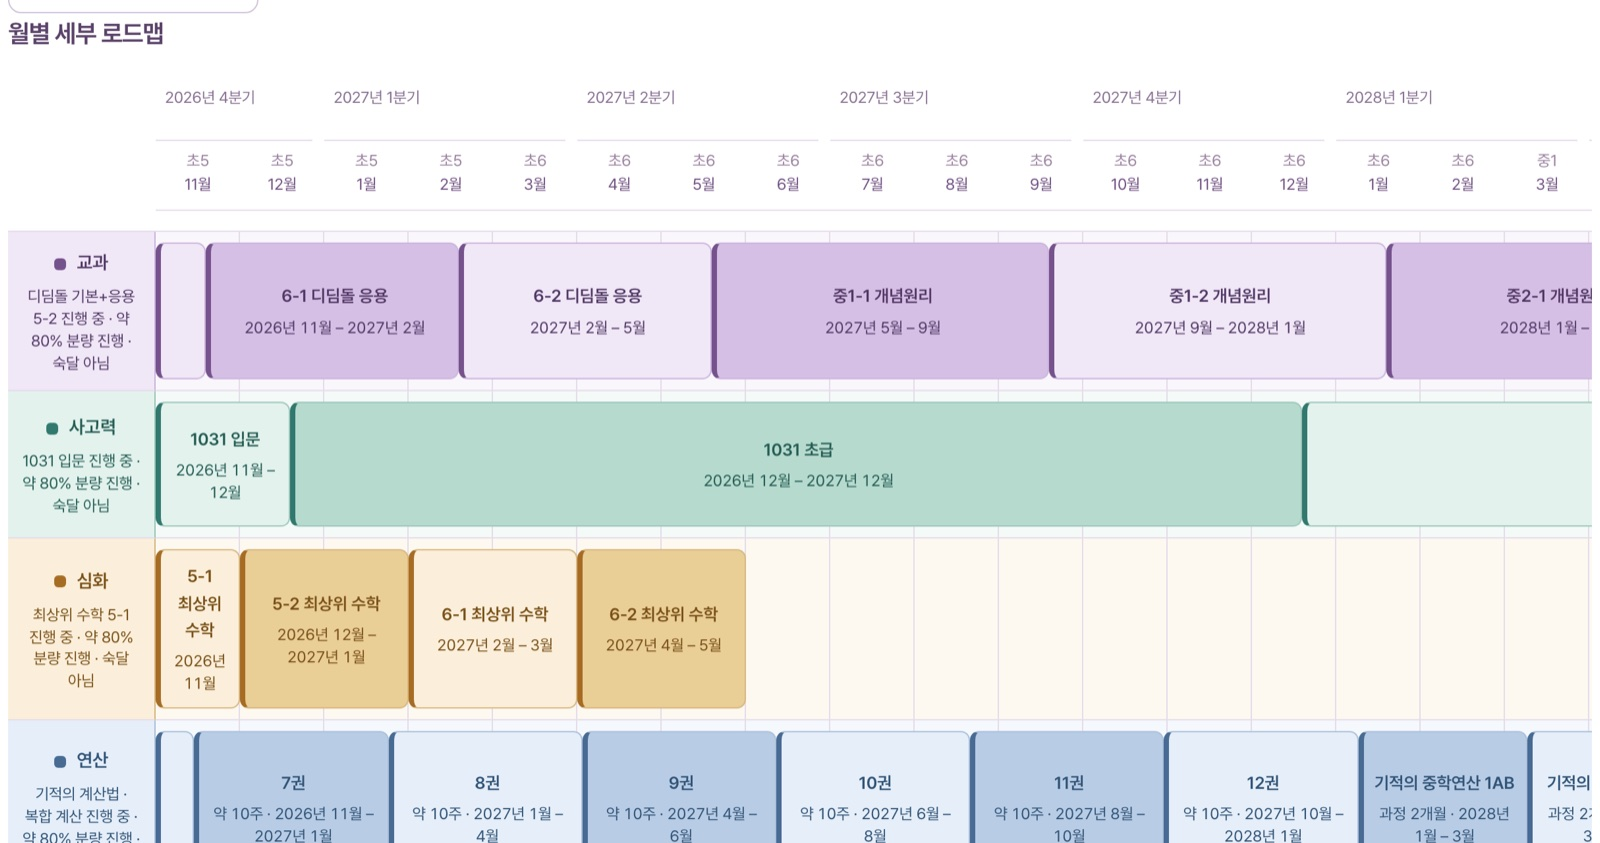
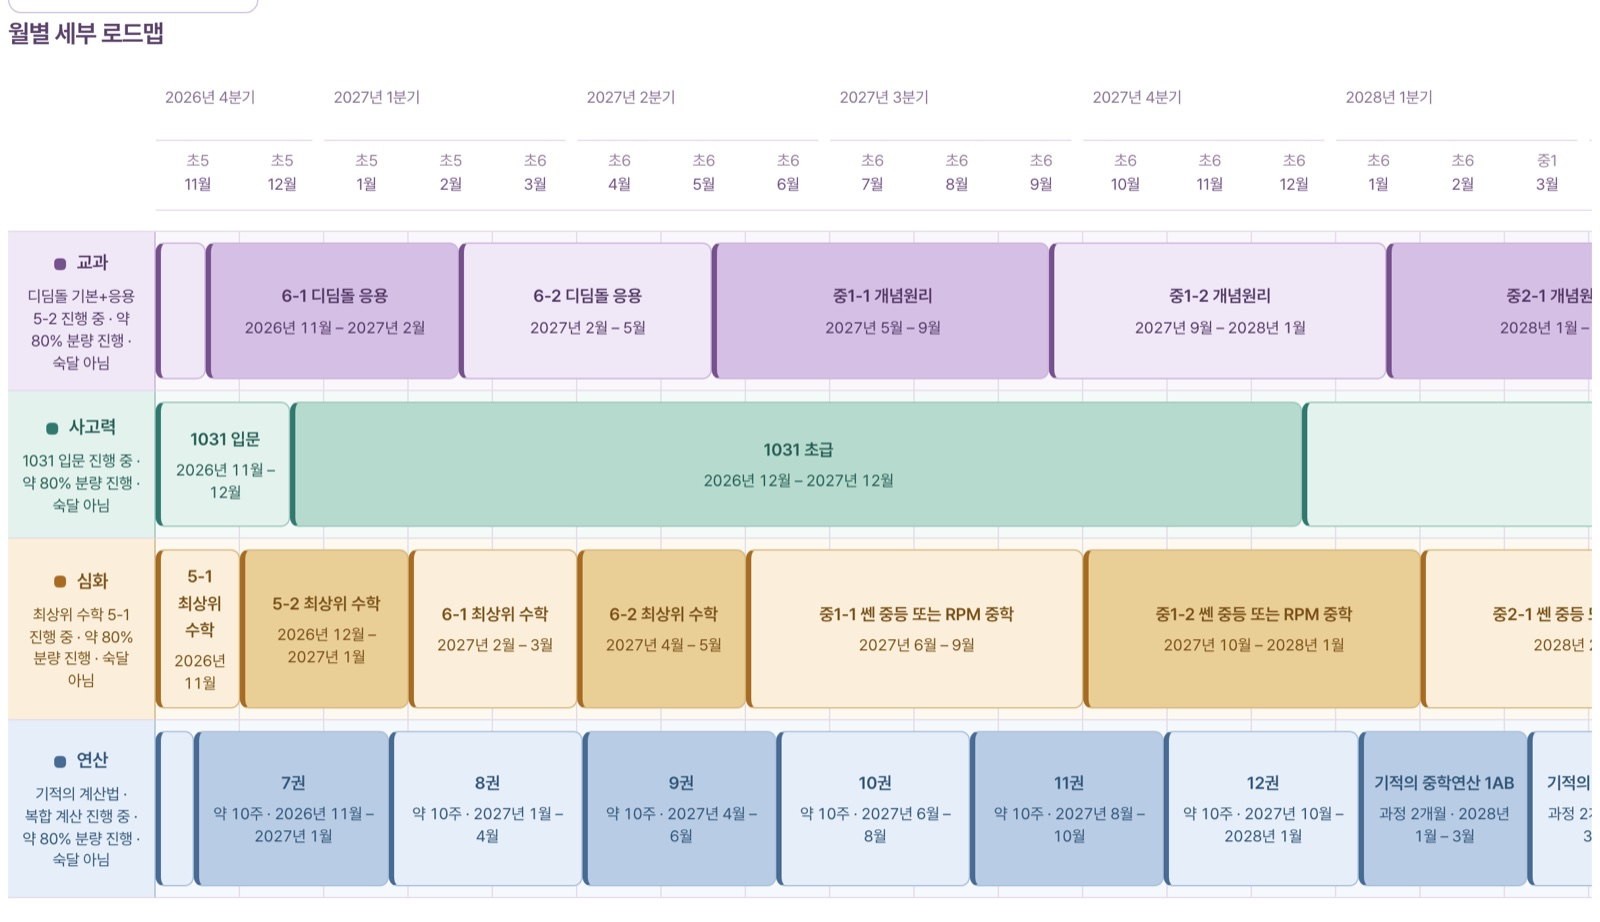
월별 계획: 중등 심화 줄을 레벨별 교재로 이음
- 낮은 레벨 쎈 또는 RPM, 중간 쎈과 일품, 위 쎈과 에이급
- 레벨은 기존 세 묶음 기준, 저장 형식은 그대로
- 소개의 월별 계획 그림을 다시 찍음

diff --git a/roadmap/demo2/planner-standard.js b/roadmap/demo2/planner-standard.js
@@ -91,6 +91,35 @@ function renderSupplementChoices(m){
  const message=m.supplementChoice==='covered'?'현재 수업·부교재에서 배우는 문장제·도형을 이어갑니다. 같은 내용을 별도 보충으로 더하지 않습니다.':m.supplementEnabled?'현재 수준에 맞는 문제해결의 길잡이·소마 도형을 꾸준히 병행합니다. 소마 수업과 겹치는 부분은 제외하고 부족한 내용부터 살펴봅니다.':m.supplementChoice==='review'?'현재 수업에서 배우는 범위와 혼자 해결하는 모습을 먼저 확인합니다. 확인 전에는 별도 보충을 추가하지 않습니다.':'현재 수업에서 이미 배우는 내용인지 먼저 확인합니다. 현재 수업·부교재와 겹치는 내용은 중복으로 배정하지 않습니다.';
  return`<section class="supplement-choice" aria-label="초1·2 문장제·도형 학습 확인"><strong>문장제·도형은 지금 어떻게 배우고 있나요?</strong><div role="group" aria-label="현재 수업과 보충 필요">${SUPPLEMENT_CHOICES.map(([id,title])=>`<button type="button" data-supplement="${id}" aria-pressed="${m.supplementChoice===id}">${title}</button>`).join('')}</div><p aria-live="polite">${message}</p></section>`;
 }
+// 중등 심화 줄 (원장님 2026-11-11): 낮은 레벨은 쎈 또는 RPM, 중간 레벨은 쎈과 일품, 그 위 레벨은 쎈과 에이급.
+// 레벨을 낮음·중간·위로 나누는 선은 새로 만들지 않고 2026-10-20 표준 세 묶음(planner.js BAND)을 그대로 쓴다:
+// C 천천히형 L10~L13 = 낮음, B 예시형 L4~L9 = 중간, A 선행형 L0~L3 = 위. 영과고형(D)은 기존 심화서가 에이급이라 위로 본다.
+// [원장 확인 필요] 세 묶음과 낮음·중간·위의 짝, D를 위로 본 것은 Claude가 맞춘 것이다.
+// 교재 이름은 교재 난이도 지도(planner-math-books-data.js)의 표기와 같게 둔다.
+const MIDDLE_DEPTH=Object.freeze({
+ C:Object.freeze({tier:'low',levels:'L10~L13',books:Object.freeze(['쎈 중등','RPM 중학']),join:' 또는 '}),
+ B:Object.freeze({tier:'middle',levels:'L4~L9',books:Object.freeze(['쎈 중등','일품 중등']),join:' + '}),
+ A:Object.freeze({tier:'high',levels:'L0~L3',books:Object.freeze(['쎈 중등','에이급수학']),join:' + '})
+});
+function middleDepth(band){const rule=MIDDLE_DEPTH[band==='D'?'A':band]||MIDDLE_DEPTH.B;return{...rule,title:rule.books.join(rule.join)};}
+const MIDDLE_DEPTH_SOURCE='level-depth-rule';
+const middleDepthExtra=(rule,stage)=>({source:MIDDLE_DEPTH_SOURCE,stage,proposed:true,books:[...rule.books],depthTier:rule.tier});
+// 24개월 끝에서 잘려 한 달 남짓만 보이는 마지막 칸은 긴 교재 이름이 줄 전체를 높이지 않게 글자를 숨긴다(이름과 기간은 aria-label·상세 표·팝업에 남는다).
+const compactTail=b=>b&&b.endClipped&&b.end-b.start<1.5?{...b,compact:true}:b;
+// 초등 심화를 마친 다음의 중등 심화. 앞 심화가 끝난 뒤, 그리고 교과가 그 학기를 시작한 뒤에만 놓는다(심화가 교과를 앞서지 않는다).
+// 한 학기 길이는 같은 레벨표의 중등 교과 한 학기와 같다. 교과 일정을 모르는 학기부터는 만들지 않는다.
+function middleDepthChain({band,after,schoolBlocks,sourceRows,passed}){
+ const rule=middleDepth(band),out=[];let cursor=Math.max(0,after);
+ for(const [n,stage] of P.MID.entries()){
+  const lesson=schoolBlocks.find(b=>b.stage===stage&&!b.highPhase);
+  if(!lesson&&!passed(14+n))break;
+  const row=sourceRows.find(r=>G.stage(r[0],'school')===stage),full=row?row[2]-row[1]+1:(P.BAND[band]||P.BAND.B).midLen;
+  const start=Math.max(cursor,lesson?lesson.start:0),block=clipped(stage+' '+rule.title,start,start+full,'deep-middle-'+(14+n),'deep',middleDepthExtra(rule,stage));
+  if(!block)break;
+  out.push(compactTail(block));cursor=start+full;
+ }
+ return out;
+}
 function model(answers={},fields={},options={}){
  const a=I.effective(answers),c=G.comparison(a,fields),source=(global.PLANNER_LEVELS||[]).find(l=>l.id===c.best),detail=global.PLANNER_STANDARD_DETAILS?.[c.best],levelNumber=source?Number(source.id.slice(1)):null;
  const defaultPattern=a.thinkingExperience==='yes'?'thinking':levelNumber!==null&&levelNumber>=10?'deep':'thinking';
@@ -106,26 +135,36 @@ function model(answers={},fields={},options={}){
  const calcPlan=calculationPlan(a,fields,options.calcDaysPerWeek);calc.blocks=calcPlan.blocks;calc.source=calcPlan.supported?'publisher-workload':null;calc.anchor=calcPlan.blocks[0]?.stage;calc.note=calcPlan.note;if(calcPlan.supported&&calcPlan.hasElementary)calc.current='기적의 계산법 · '+calc.current;
  if(schoolParallel&&detail?.elementaryMode?.id==='application-then-depth'&&school.anchor!==null)school.blocks=withoutDepthSlots(fromSource(source.school,school.anchor,'school','school',{horizon:Infinity}),detail.schoolGaps||[],school.anchor);
  fillIndependent(thinking,a,c,thinkingSource(c),profile);
+ // The same school calendar without the 24-month cut, for depth and science anchors.
+ let fullSchool=[];
+ if(source&&school.anchor!==null){
+  fullSchool=fromSource(source.school,school.anchor,'school-reference','school',{horizon:Infinity});
+  if(schoolParallel&&detail?.elementaryMode?.id==='application-then-depth')fullSchool=withoutDepthSlots(fullSchool,detail.schoolGaps||[],school.anchor,Infinity);
+ }
+ const actualSchoolAxis=c.axes.find(x=>x.id==='school'),schoolIndex=P.MID.indexOf(actualSchoolAxis?.stage);
+ const schoolPassed=n=>!!actualSchoolAxis?.ready&&(I.highBook(a.schoolBook)||schoolIndex>=0&&(14+schoolIndex>n||14+schoolIndex===n&&actualSchoolAxis.done));
  if(independentDepth){
   deep.blocks=profileBlocks(profile,'deep');deep.source='current-profile';deep.anchor=deep.blocks[0]?.stage||null;
+  // A reported elementary depth book ends at 6-2. The middle-school part follows the level rule;
+  // a reported middle or high depth book keeps its own reported course untouched.
+  if(a.deepCourse==='elem'&&!I.middleBook(a.deepBook)&&!I.highBook(a.deepBook)&&school.blocks.length&&!deep.blocks.some(b=>b.endClipped)){
+   deep.blocks.push(...middleDepthChain({band,after:Math.max(0,...deep.blocks.map(b=>b.end)),schoolBlocks:fullSchool.length?fullSchool:school.blocks,sourceRows:source?.school||[],passed:schoolPassed}));
+  }
   deep.note=deep.blocks.length?'현재 심화 교재·범위에서 별도로 이어가는 과정입니다. 교과와 사고력의 진도는 유지합니다.':'현재 심화 과정 이후 교재·범위는 풀이를 확인한 뒤 연결합니다.';
  }else if(pattern==='deep'&&deep.status!=='unknown'&&school.blocks.length&&source&&school.anchor!==null){
   // This is a proposed standard only when no independent depth course is reported.
   const elementary=(detail?.school2||[]).filter(b=>/^[1-6]-[12]$/.test(b.stage||'')||!/중|공통|고등/.test(b.title)&&/최상위/.test(b.title));
   deep.blocks=fromSource(elementary,school.anchor,'deep','school',{all:true});deep.source='standard-depth';deep.anchor=school.anchor;
-  if(band==='C'){
-   for(const block of school.blocks){if(!/^중[1-3]-[12]$/.test(block.stage||''))continue;
-    deep.blocks.push({...block,id:'deep-current-policy-'+block.id,title:block.stage+' '+I.standardBook('C','mid','deep'),kind:'deep',source:'current-engine-C'});
-   }
+  const rule=middleDepth(band);
+  for(const block of school.blocks){if(!/^중[1-3]-[12]$/.test(block.stage||''))continue;
+   deep.blocks.push(compactTail({...block,id:'deep-current-policy-'+block.id,title:block.stage+' '+rule.title,kind:'deep',...middleDepthExtra(rule,block.stage)}));
   }
   deep.note=deep.blocks.length?'아직 별도로 공부 중인 심화가 없을 때 비교하는 표준 심화 과정입니다.':'이 범위의 심화 교재는 현재 학습과 풀이를 확인한 뒤 연결합니다.';
  }else deep.note=deep.status==='unknown'?'현재 심화 교재와 범위를 확인한 뒤 연결합니다.':deep.status==='none'?'아직 시작하지 않은 영역입니다. 시작 교재는 조정 단계에서 선택할 수 있습니다.':'현재 심화 학습을 선택하면 과정이 연결됩니다.';
  if(band==='C')school.blocks=school.blocks.map(block=>/^중/.test(block.stage||'')&&block.source==='level-table'?{...block,title:block.stage+' '+I.standardBook('C','mid','school'),source:'current-engine-C'}:block);
  let scienceAnchor=null;
  if(source&&school.anchor!==null){
-  let full=fromSource(source.school,school.anchor,'science-reference','school',{horizon:Infinity});
-  if(schoolParallel&&detail?.elementaryMode?.id==='application-then-depth')full=withoutDepthSlots(full,detail.schoolGaps||[],school.anchor,Infinity);
-  const middle=full.find(b=>b.stage==='중2-1');
+  const middle=fullSchool.find(b=>b.stage==='중2-1');
   if(middle)scienceAnchor=middle.end;
   else{const raw=source.school.find(b=>G.stage(b[0],'school')==='중2-1');if(raw&&raw[2]+1<=school.anchor)scienceAnchor=raw[2]+1-school.anchor;}
  }
@@ -169,13 +208,16 @@ function model(answers={},fields={},options={}){
  ];
  if(sequential)assumptions.push('응용 3개월 다음에 같은 학기의 심화 2개월을 공부합니다. 교과선이 평평한 두 달은 심화에 집중하는 기간입니다.');
  else if(detail?.elementaryMode?.id==='application-then-depth')assumptions.push(independentDepth?'이미 별도로 진행 중인 심화가 있어 교과 뒤에 표준 심화 2개월을 추가하지 않습니다. 현재 심화의 범위·기간과 사고력·연산은 각각 별도로 이어갑니다.':'교과·사고력 중심 구성에서는 교과 뒤의 별도 심화 2개월을 배정하지 않고 다음 교과를 잇습니다. 다른 영역의 현재 출발점은 그대로 유지합니다.');
- if(band==='C')assumptions.push('중등 교과는 개념원리·RPM으로 개념과 유형을 공부합니다. A급 등 심화 교재는 현재 풀이를 보고 따로 선택합니다.');
+ if(band==='C')assumptions.push('중등 교과는 개념원리로 개념을 배우고, 쎈 또는 RPM으로 유형을 다집니다. 에이급 등 더 어려운 심화서는 현재 풀이를 보고 따로 선택합니다.');
+ const depthRule=deep.blocks.some(b=>b.source===MIDDLE_DEPTH_SOURCE)?middleDepth(band):null;
+ const depthRuleNote=depthRule?'중등 심화 교재는 학습 레벨에 따라 달라집니다. '+MIDDLE_DEPTH.C.levels+'은 쎈 또는 RPM, '+MIDDLE_DEPTH.B.levels+'는 쎈과 일품, '+MIDDLE_DEPTH.A.levels+'은 쎈과 에이급입니다. 이 계획은 '+(c.best?c.best+' 기준이라 ':'')+depthRule.title+'으로 잡았습니다. 실제 풀이를 보고 교재를 바꿀 수 있습니다.':'';
+ if(depthRuleNote)assumptions.push(depthRuleNote,independentDepth?'중등 심화는 지금 하는 초등 심화를 마친 뒤, 교과에서 그 학기를 시작한 다음에 이어갑니다. 한 학기 길이는 중등 교과 한 학기와 같게 잡았습니다.':'중등 심화는 교과와 같은 학기를 함께 공부하는 일정으로 잡았습니다.');
  if(Object.keys(highReadyAt).length)assumptions.push('고등 개념·쎈 병행 → 다음 과목 선행 + 앞 과목 심화. 기본정석의 완료를 쎈 완료로 간주하지 않습니다.',...highWarnings);
  assumptions.push(calcPlan.note);
  if(supplementEligible)assumptions.push('초1·2 문장제·도형 보충은 현재 수업에서 부족한 부분이 있을 때 추가합니다. 문제해결의 길잡이·소마 도형 중 수업과 겹치지 않는 내용을 골라 주세요.');
  if(supplementEnabled)assumptions.push('문제해결의 길잡이와 소마 도형 중 수업과 겹치지 않는 내용을 꾸준히 병행합니다. 표시 범위는 병행할 시기이며 한 권의 이수 기간이 아닙니다. 현재 단계와 풀이를 보고 조정합니다.');
  const composition=['교과',...(thinking.status==='known'||pattern==='thinking'?['사고력']:[]),...(independentDepth||pattern==='deep'||deep.blocks.some(b=>b.highPhase)?['심화']:[]),'연산'].join(' · ');
- return{ready,pattern,composition,highReadyAt,highWarnings,independentDepth,scienceAnchor,level:c.best||null,levelLabel:c.best?G.levelLabel(c,c.best):'현재 학습에서 시작',band,lanes,months,stages,now:c.now,horizon:LIMIT,sequential,calcPlan,supplementEligible,supplementChoice,supplementEnabled,supplements,assumptions,partial:lanes.some(l=>!l.blocks.length),reason:ready?'':school.note||'현재 교과와 진도를 선택하면 표준 계획을 먼저 보여드립니다.'};
+ return{ready,pattern,composition,highReadyAt,highWarnings,independentDepth,depthRule:depthRule?{tier:depthRule.tier,books:[...depthRule.books],title:depthRule.title}:null,depthRuleNote,scienceAnchor,level:c.best||null,levelLabel:c.best?G.levelLabel(c,c.best):'현재 학습에서 시작',band,lanes,months,stages,now:c.now,horizon:LIMIT,sequential,calcPlan,supplementEligible,supplementChoice,supplementEnabled,supplements,assumptions,partial:lanes.some(l=>!l.blocks.length),reason:ready?'':school.note||'현재 교과와 진도를 선택하면 표준 계획을 먼저 보여드립니다.'};
 }
 function period(m,b){const start=monthAt({year:m.months[0]?.year,mon:m.months[0]?.month},Math.floor(b.start)),end=monthAt({year:m.months[0]?.year,mon:m.months[0]?.month},Math.max(0,Math.ceil(b.end)-1));return start.label+(start.label===end.label?'':' – '+(start.year===end.year?end.month+'월':end.label));}
 function renderSummary(m){return`<div class="standard-summary"><div><small>현재 공부에서 이어지는 표준 계획</small><strong>${esc(m.composition)}</strong></div><span>${esc(m.levelLabel)}</span>${Object.keys(m.highReadyAt||{}).length?'<button type="button" data-high-study-open>고등 개념·쎈·심화</button>':''}</div>`;}
@@ -199,10 +241,12 @@ function render(m,options={}){
  const groups=[];m.months.forEach((d,i)=>{const name=d.year+'년 '+d.quarter+'분기';if(groups.at(-1)?.name===name)groups.at(-1).count++;else groups.push({name,start:i,count:1});});
  const endNote=m.lanes.find(row=>row.id==='school')?.note;
  const pendingNote=endNote?`<p class="standard-source-end">${esc(endNote)}</p>`:'';
+ // 월별 표 바로 아래에만 보인다. 지도 보기에서는 달력이 접혀 있어 '기간과 연결 기준' 안에만 둔다.
+ const depthRuleNote=m.depthRuleNote?`<p class="standard-source-end standard-depth-rule">${esc(m.depthRuleNote)}</p>`:'';
  const assumptions=`<details class="standard-assumptions"><summary>표준 계획의 기간과 연결 기준</summary><ul>${m.assumptions.map(s=>`<li>${esc(s)}</li>`).join('')}</ul></details>`;
  const displayRows=m.lanes.flatMap(row=>{const extra=row.blocks.filter(b=>b.additional);return extra.length?[{...row,blocks:row.blocks.filter(b=>!b.additional)},...extra.map(b=>({...row,label:row.label+' · 추가 현재 심화',current:b.title,blocks:[b],note:''}))]:[row];});
- const calendar=`<div class="standard-calendar" tabindex="0" aria-label="24개월 영역별 학습 일정"><div class="standard-calendar-inner"><div class="standard-quarter-axis" style="display:grid;grid-template-columns:repeat(24,minmax(0,1fr))">${groups.map(g=>`<span style="grid-column:${g.start+1}/span ${g.count}">${esc(g.name)}</span>`).join('')}</div><div class="standard-month-axis" style="display:grid;grid-template-columns:repeat(24,minmax(0,1fr))">${m.months.map(d=>`<span><small>${esc(d.grade)}</small>${d.month}월</span>`).join('')}</div><div class="standard-lanes">${displayRows.map(row=>`<section class="standard-lane" data-lane="${row.id}" data-study-area="${row.id}"><header><strong>${esc(row.label)}</strong><span>${esc(row.current)}</span></header><div class="standard-lane-track">${row.blocks.map(b=>`<button type="button" class="standard-block ${b.current?'is-current':''}${b.end-b.start<.75?' is-sliver':''}" data-course-tone="${tone(b)}" data-standard-block="${esc(b.id)}" style="left:${b.start/LIMIT*100}%;width:${(b.end-b.start)/LIMIT*100}%" aria-label="${esc(row.label+' · '+b.title+' · '+period(m,b))}"><strong>${esc(row.id==='calc'?b.title.replace('기적의 계산법 ' ,''):b.title)}</strong><small>${b.weeks?'약 '+Number(b.weeks.toFixed(1))+'주 · ':b.fullMonths?'과정 '+b.fullMonths+'개월 · ':''}${esc(period(m,b))}${b.continues?' · 이후 계속':''}</small></button>`).join('')||`<p class="standard-lane-empty">${esc(row.note)}</p>`}${tail(row)}</div></section>`).join('')}</div></div></div>`;
- if(options.view==='table')return`<section class="standard-roadmap">${summary}<h3 class="horizontal-plan-title">월별 세부 로드맵</h3>${calendar.replace('class="standard-calendar"','class="standard-calendar horizontal-course-grid"')}${pendingNote}${routine}${supplements}<details class="horizontal-plan-details"><summary>교재별 기간 상세</summary><div class="standard-table-wrap"><table class="standard-table"><caption>표준 교재와 월별 과정</caption><thead><tr><th>영역</th><th>기간</th><th>공부할 교재·과정</th></tr></thead><tbody>${m.lanes.map(row=>row.blocks.length?row.blocks.map(b=>`<tr data-study-area="${row.id}" data-course-tone="${tone(b)}"><th scope="row">${esc(row.label)}</th><td>${esc(period(m,b))}</td><td>${esc(b.title)}${b.reported?' · 현재 교재':''}</td></tr>`).join(''):`<tr data-study-area="${row.id}"><th scope="row">${esc(row.label)}</th><td>연결 전</td><td>${esc(row.current)}<small>${esc(row.note)}</small></td></tr>`).join('')}</tbody></table></div></details>${assumptions}</section>`;
+ const calendar=`<div class="standard-calendar" tabindex="0" aria-label="24개월 영역별 학습 일정"><div class="standard-calendar-inner"><div class="standard-quarter-axis" style="display:grid;grid-template-columns:repeat(24,minmax(0,1fr))">${groups.map(g=>`<span style="grid-column:${g.start+1}/span ${g.count}">${esc(g.name)}</span>`).join('')}</div><div class="standard-month-axis" style="display:grid;grid-template-columns:repeat(24,minmax(0,1fr))">${m.months.map(d=>`<span><small>${esc(d.grade)}</small>${d.month}월</span>`).join('')}</div><div class="standard-lanes">${displayRows.map(row=>`<section class="standard-lane" data-lane="${row.id}" data-study-area="${row.id}"><header><strong>${esc(row.label)}</strong><span>${esc(row.current)}</span></header><div class="standard-lane-track">${row.blocks.map(b=>`<button type="button" class="standard-block ${b.current?'is-current':''}${b.end-b.start<.75||b.compact?' is-sliver':''}" data-course-tone="${tone(b)}" data-standard-block="${esc(b.id)}" style="left:${b.start/LIMIT*100}%;width:${(b.end-b.start)/LIMIT*100}%" aria-label="${esc(row.label+' · '+b.title+' · '+period(m,b))}"><strong>${esc(row.id==='calc'?b.title.replace('기적의 계산법 ' ,''):b.title)}</strong><small>${b.weeks?'약 '+Number(b.weeks.toFixed(1))+'주 · ':b.fullMonths?'과정 '+b.fullMonths+'개월 · ':''}${esc(period(m,b))}${b.continues?' · 이후 계속':''}</small></button>`).join('')||`<p class="standard-lane-empty">${esc(row.note)}</p>`}${tail(row)}</div></section>`).join('')}</div></div></div>`;
+ if(options.view==='table')return`<section class="standard-roadmap">${summary}<h3 class="horizontal-plan-title">월별 세부 로드맵</h3>${calendar.replace('class="standard-calendar"','class="standard-calendar horizontal-course-grid"')}${pendingNote}${depthRuleNote}${routine}${supplements}<details class="horizontal-plan-details"><summary>교재별 기간 상세</summary><div class="standard-table-wrap"><table class="standard-table"><caption>표준 교재와 월별 과정</caption><thead><tr><th>영역</th><th>기간</th><th>공부할 교재·과정</th></tr></thead><tbody>${m.lanes.map(row=>row.blocks.length?row.blocks.map(b=>`<tr data-study-area="${row.id}" data-course-tone="${tone(b)}"><th scope="row">${esc(row.label)}</th><td>${esc(period(m,b))}</td><td>${esc(b.title)}${b.reported?' · 현재 교재':''}</td></tr>`).join(''):`<tr data-study-area="${row.id}"><th scope="row">${esc(row.label)}</th><td>연결 전</td><td>${esc(row.current)}<small>${esc(row.note)}</small></td></tr>`).join('')}</tbody></table></div></details>${assumptions}</section>`;
  return`<section class="standard-roadmap">${summary}<div class="standard-landscape" style="background-image:url('assets/learning-landscape-20261023.png')"><div class="standard-stage-cards">${m.stages.map((b,i)=>`<button type="button" class="standard-stage" data-study-area="${b.kind}" data-course-tone="${tone(b)}" data-standard-block="${esc(b.id)}"><small>${i===0?'현재부터':i===1?'다음 과정':'그다음 과정'} · ${esc(label(b.kind))}</small><strong>${esc(b.title)}</strong><span>${esc(period(m,b))}</span></button>`).join('')}</div></div>${calendar}${pendingNote}${routine}${supplements}${assumptions}</section>`;
 }
 global.PlannerStandard=Object.freeze({model,render,renderSummary,faq,renderFAQ,renderQuestions:renderFAQ,calculationPlan,renderCalculationGraph,chooseSupplement,renderSupplementChoices,renderSupplementQuestions});

diff --git a/roadmap/demo2/account.html b/roadmap/demo2/account.html
@@ -75,7 +75,7 @@
     <div class="account-preview-copy"><h3>지금 속도로 가면 2년 뒤 어디쯤일까요?</h3><p>지금 공부 속도를 유지할 때의 진도와, 더 앞선 진도의 예시 두 가지를 같은 24개월 위에 놓고 봅니다. 교과·사고력·연산을 하나씩 골라 볼 수 있습니다.</p></div>
    </div>
    <div id="previewTablePanel" class="account-preview-panel" role="tabpanel" aria-labelledby="previewTable" tabindex="0" hidden>
-    <figure><img src="assets/roadmap-program-table-20261111.jpg" width="1600" height="843" loading="lazy" alt="교과, 사고력, 심화, 연산 교재를 줄마다 나누어 2026년 11월부터 월별로 놓은 월별 세부 로드맵 화면"><figcaption>프로그램의 교재·월별 계획 화면 · 초5 입력 예시 <a href="assets/roadmap-program-table-20261111.jpg" target="_blank" rel="noopener">이미지 크게 보기</a></figcaption></figure>
+    <figure><img src="assets/roadmap-program-table-20261111.jpg" width="1600" height="922" loading="lazy" alt="교과, 사고력, 심화, 연산 교재를 줄마다 나누어 2026년 11월부터 월별로 놓은 월별 세부 로드맵 화면"><figcaption>프로그램의 교재·월별 계획 화면 · 초5 입력 예시 <a href="assets/roadmap-program-table-20261111.jpg" target="_blank" rel="noopener">이미지 크게 보기</a></figcaption></figure>
     <div class="account-preview-copy"><h3>이번 달에 함께 공부할 교재를 정리해요</h3><p>같은 달에 공부할 교과·사고력·심화·연산을 한 표에서 봅니다. 국어·과학 등 함께 계획한 과목도 확인하고, 내신 준비와 특강이 겹치는 달의 학습량을 조정합니다.</p></div>
    </div>
   </div>

diff --git a/roadmap/demo2/planner.html b/roadmap/demo2/planner.html
@@ -315,7 +315,7 @@ main{max-width:1500px;margin:0 auto;padding:18px 18px 120px}
 <script type="text/plain" data-member-src="planner-guide.js?v=20261025-refine100"></script>
 <script type="text/plain" data-member-src="planner-storage.js?v=20261111-guest1"></script>
 <script type="text/plain" data-member-src="planner-high-study.js?v=20261110-flow3"></script>
-<script type="text/plain" data-member-src="planner-standard.js?v=20261110-fixes1"></script>
+<script type="text/plain" data-member-src="planner-standard.js?v=20261111-deep1"></script>
 <script type="text/plain" data-member-src="planner-level-pace.js?v=20261110-pace10"></script>
 <script type="text/plain" data-member-src="planner-chart-motion.js?v=20261110-motion2"></script>
 <script type="text/plain" data-member-src="planner-curriculum.js?v=20261110-flow3"></script>
